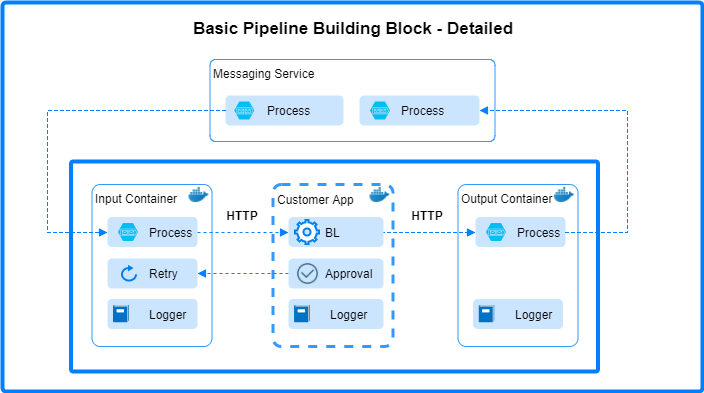
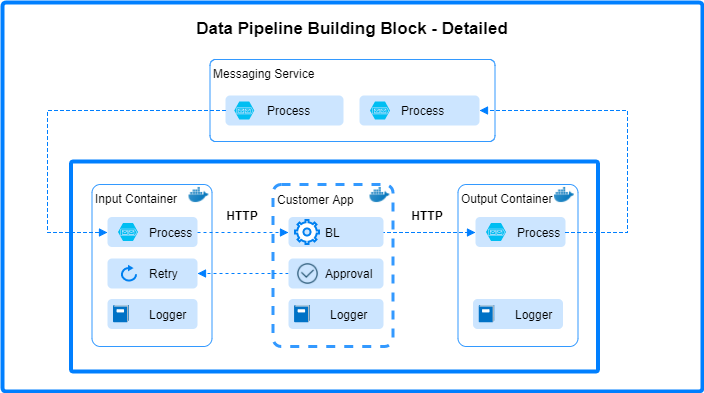
update accoring to review

Changed region(s): [[0.25, 0.0305, 0.75, 0.0916]]

diff --git a/docs/assets/design/README.md b/docs/assets/design/README.md
@@ -2,7 +2,7 @@
 
 # Architecture Diagram
 
-## Basic Pipeline Building Block
+## Data Pipeline Building Block
 
 The following is a basic, data pipeline, building block consisting of an <input, app, output> sequence. The input/output containers implement connector to various messaging services and act as a message procy between the and the app container. This sequence removes the need to implement connector to various messaging service, and focus on building the business logic inside the app container.
 
@@ -11,15 +11,27 @@ The following is a basic, data pipeline, building block consisting of an <input,
 See [here](#pipeline-building-blobk-description) for a detailed diagram.
 
 ## CI/CD Pipeline
+
+The CI/CD pipeline runs on Azure Devops (also Azure Pipelines). It consist of three separate pipelines - two, that are triggered on code check of to the Customer Application or the Input/Output application, then build them with unit testing, then push them to Azure Container Registry (also ACR); And another pipeline that is triggered when a new image is pushed to the ACR, then pulls the updated images, and runs both integration tests and E2E tests.
+
 ![Architecure Diagram - ci/cd](./agogosml.draw-io-CI-CD.png)
 
-## Production Architecture
+## Data Pipeline - Production Architecture
+
+The production architecture uses Kubernetes to host and connect between different containers in the registry and uses kafka containers to act as a Messaging Service.
+
 ![Architecure Diagram - production architecture](./agogosml.draw-io-Production.png)
 
-## Test Architecture
+## Data Pipeline - Test Architecture
+
+The test architecture runs both unit tests and integration tests locally on the test machine - In our case, the Azure Devops machine. It runs the tested containers as well as the testing helper containers locally, while the testing container are responsibe for pushing data into the pipeline and checking that the data coming from the other end of the pipeline is as expected.
+
 ![Architecure Diagram - test architecture](./agogosml.draw-io-Test.png)
 
-## Pipeline Building Blobk Description
+## Data Pipeline Building Blobk Description
+
+The following is a detailed description of the Data Pipeline Building Block and all the elemets connecting between the different containers in this block.
+
 ![Architecure Diagram - Pipeline Building Blobk Description](./agogosml.draw-io-input-app-output-desc.png)
 
 # Overview
@@ -44,7 +56,7 @@ Each pipeline:
 
 - The Azure DevOps pipelines delivers a new tagged, tested and verified release version
 - The Sample Application container is a place holder for any customer application image. That image needs to answer to the following conditions:
-  - Implement the HTTP endpoints protocol (TBD).
+  - Implement the HTTP endpoints protocol [[See Issue](https://github.com/Microsoft/agogosml/issues/95)].
   - [Optional] Return message handling statuses to the input handler to enable a retry mechanism (Retry mechanism design is TBD)
 - The Input/Output components handle the following areas of the data pipeline:
   - Connectivity to the different types of events sources, such as Azure EventHubs, Kafka and HTTP (for batching)
@@ -63,5 +75,4 @@ Each pipeline:
 
 # Open issues
 
-- Verify docker client can be run locally on a agent VM -> Done
-- Verify Kafka/EH producers/consumers mocks are available
+- Verify Kafka/EH producers/consumers mocks are available [See Issue]
